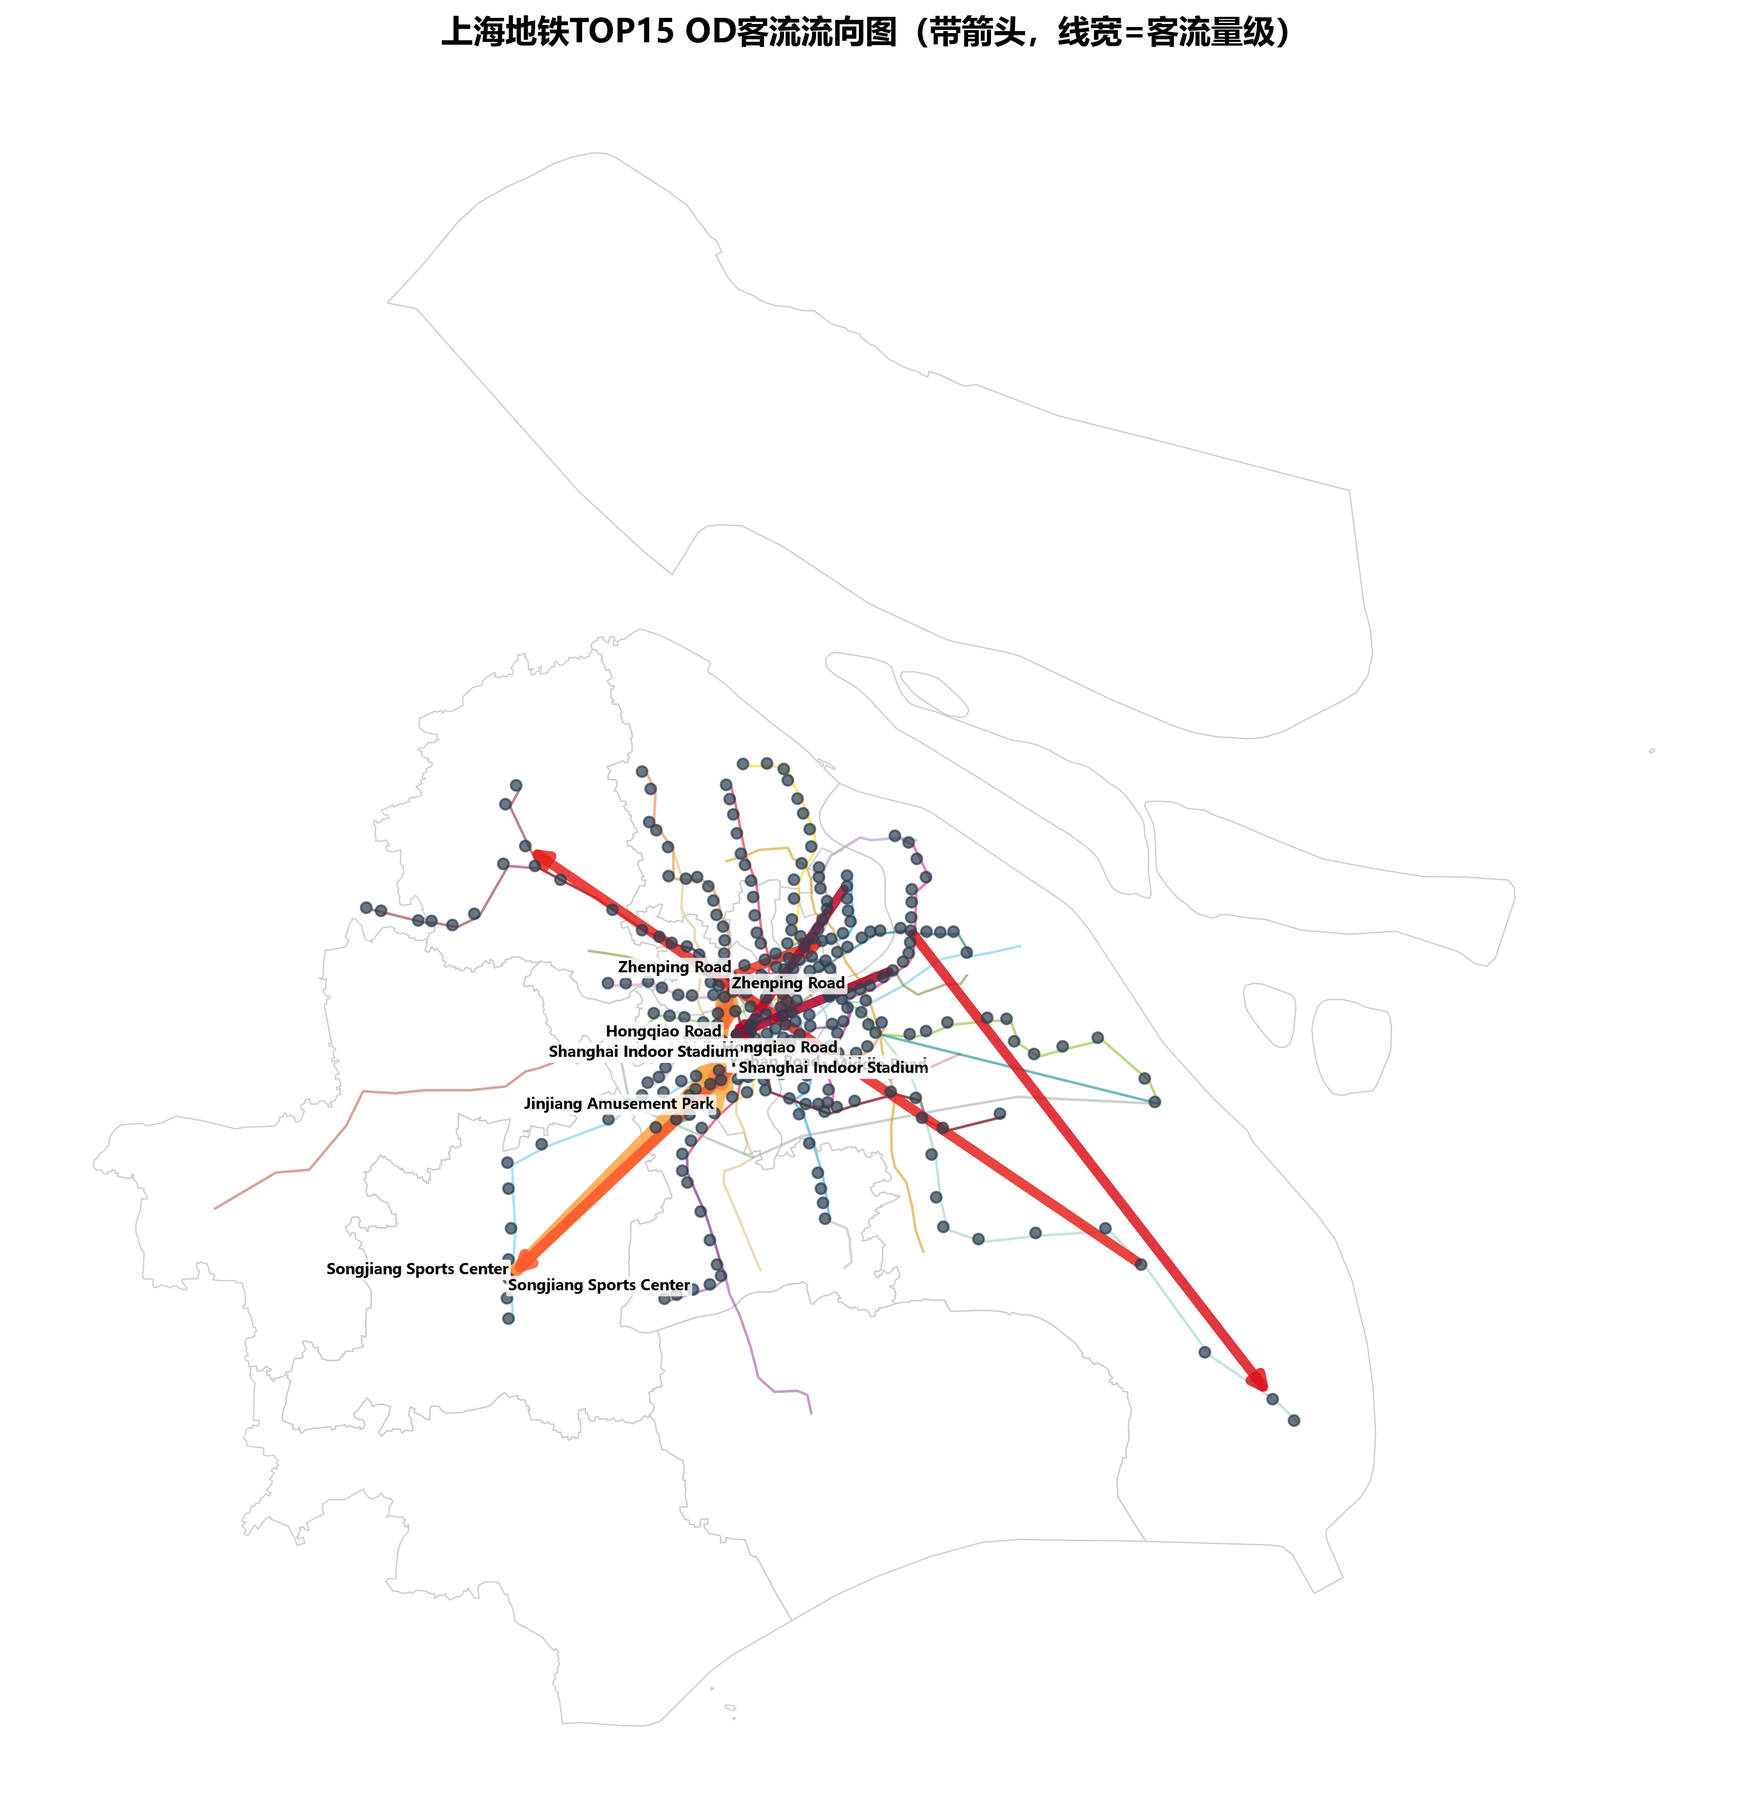
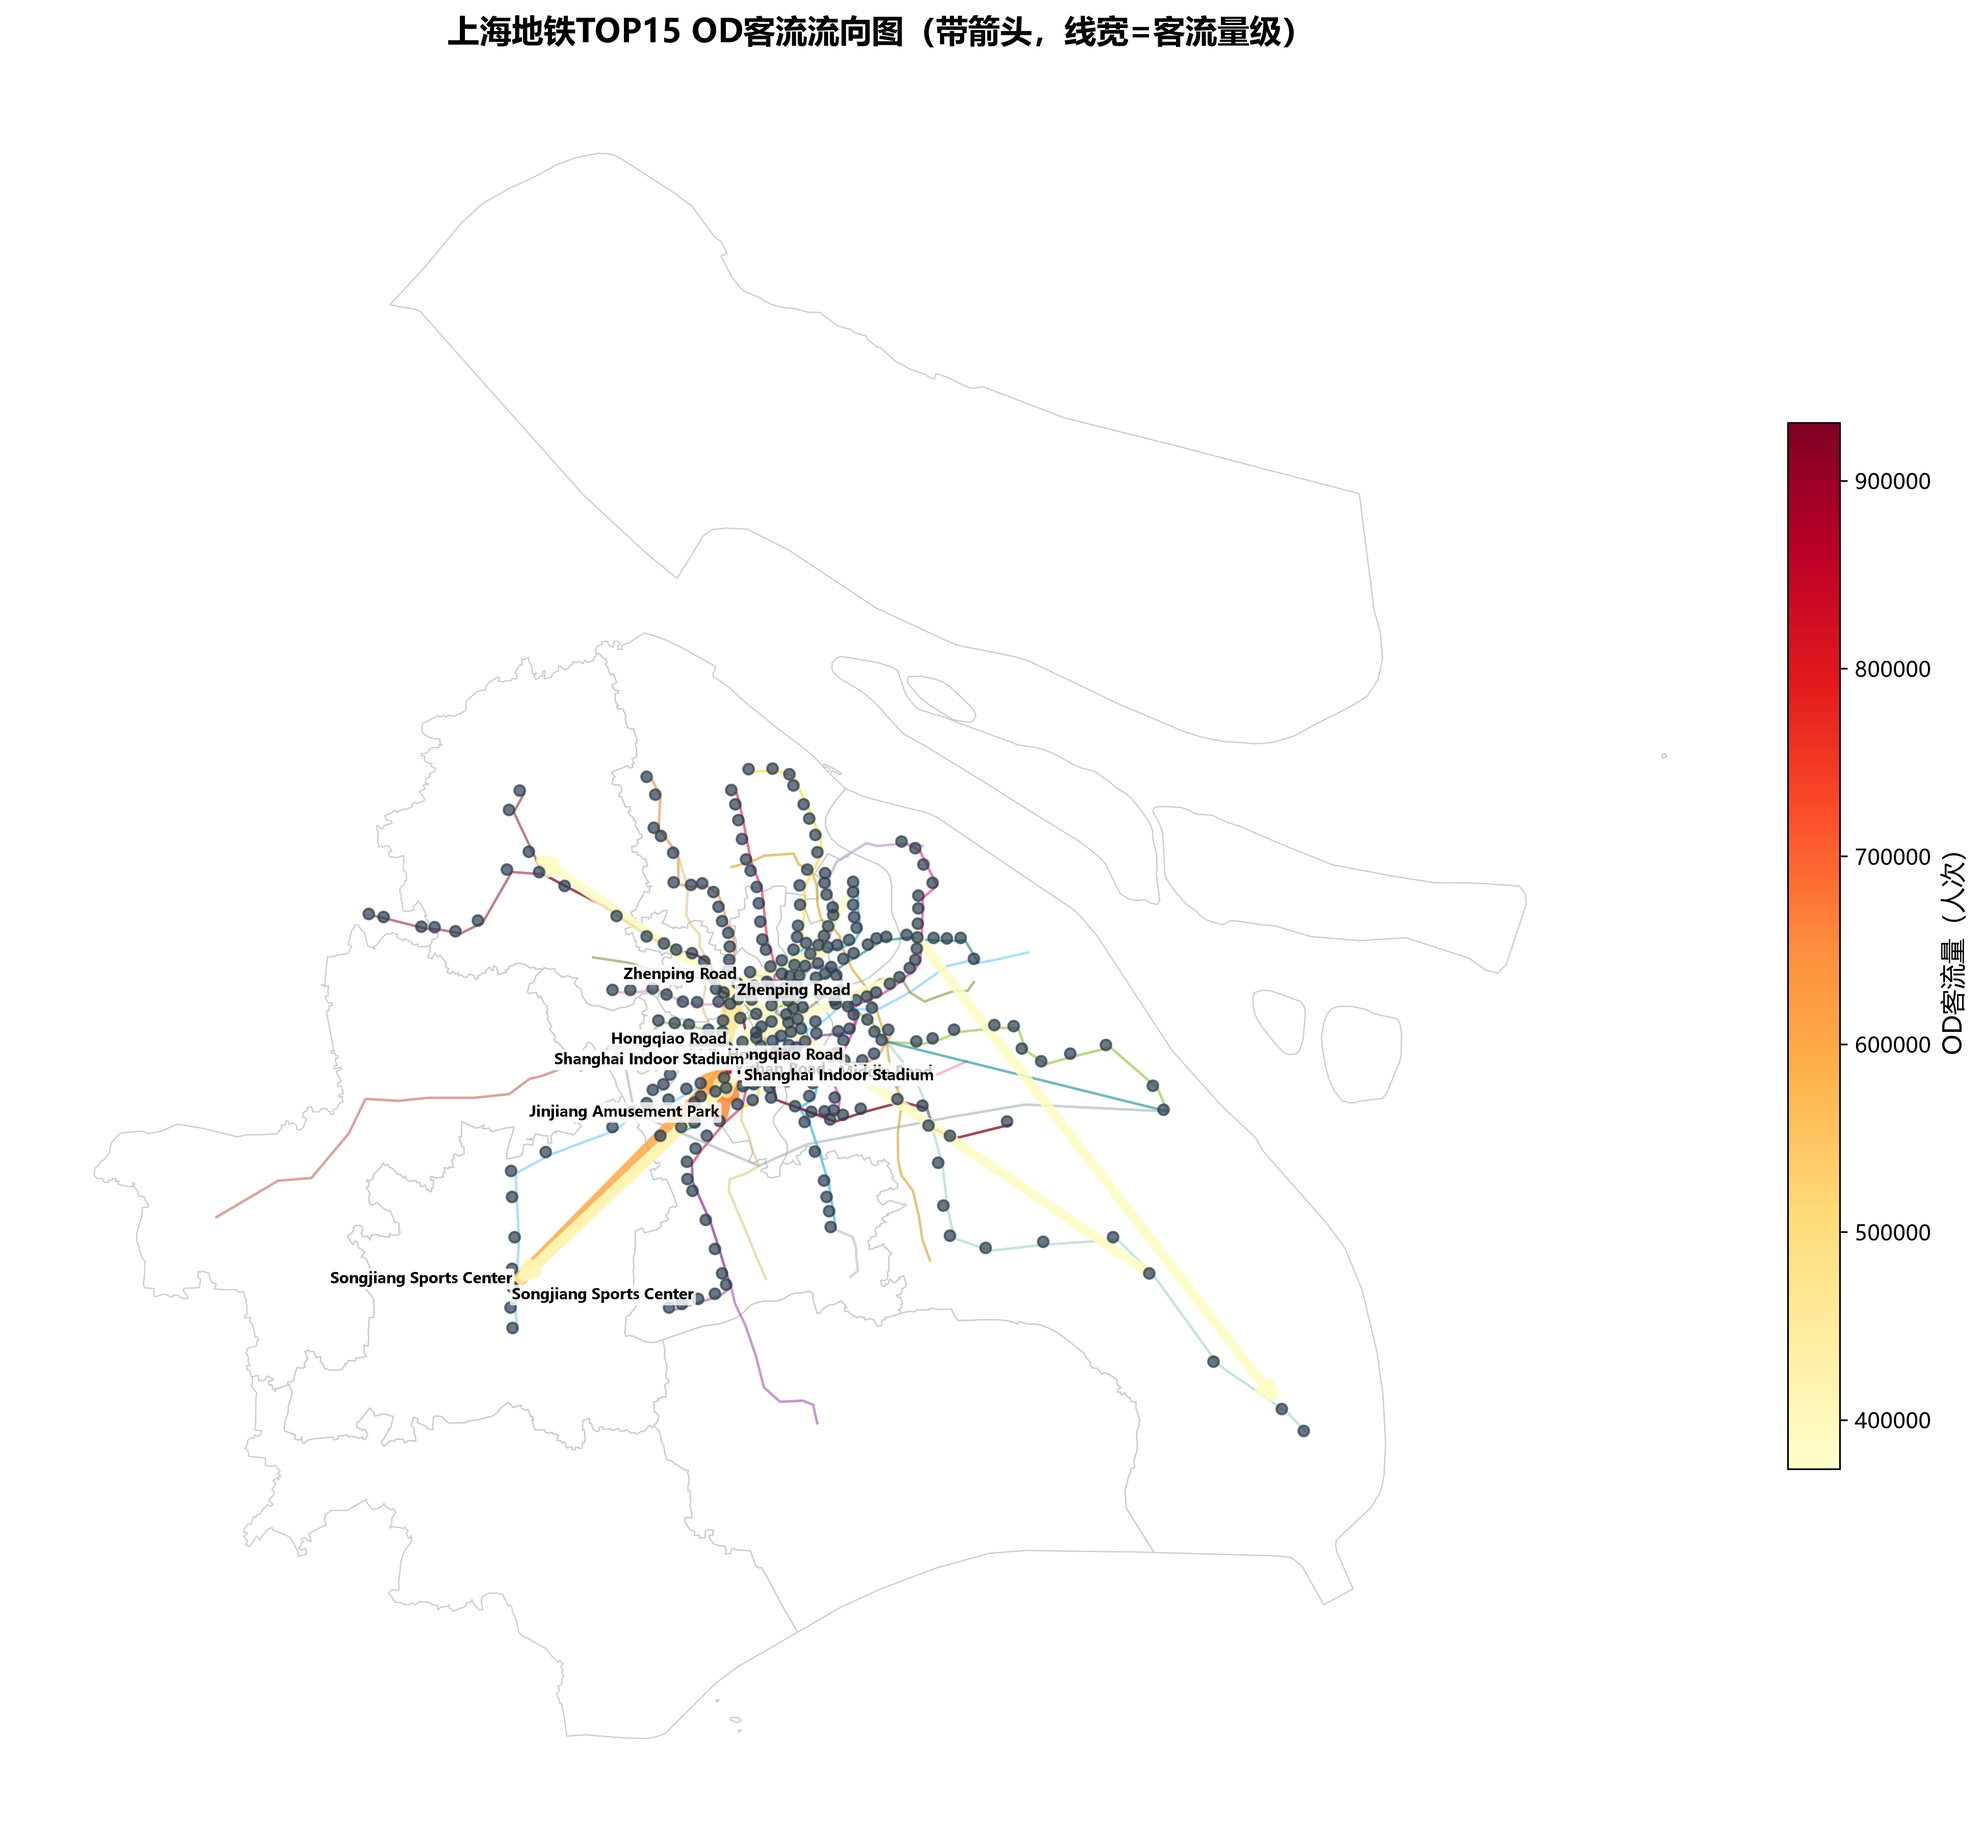
分工3: 图3-4b新增OD客流量颜色条图例，颜色按实际客流映射

diff --git a/code/分工3/07b_OD可视化优化版.py b/code/分工3/07b_OD可视化优化版.py
@@ -14,7 +14,8 @@ import numpy as np
 import matplotlib
 matplotlib.use("Agg")
 import matplotlib.pyplot as plt
-from matplotlib.colors import LinearSegmentedColormap
+from matplotlib.colors import LinearSegmentedColormap, Normalize
+from matplotlib.cm import ScalarMappable
 from matplotlib.patches import FancyArrowPatch
 import geopandas as gpd
 from pyproj import Transformer
@@ -118,8 +119,11 @@ flow_vals = top15["Flow"].values
 p95 = np.percentile(flow_vals, 95)
 linewidths = 1.5 + (np.clip(flow_vals, None, p95) / p95) * 7
 
-# 颜色从浅到深
-colors = plt.cm.YlOrRd(np.linspace(0.3, 0.9, len(top15)))
+# 颜色按实际客流量映射（YlOrRd），并创建colorbar
+norm = Normalize(vmin=flow_vals.min(), vmax=flow_vals.max())
+sm = ScalarMappable(cmap="YlOrRd", norm=norm)
+sm.set_array([])
+colors = sm.to_rgba(flow_vals)
 
 for idx, (_, r) in enumerate(top15.iterrows()):
     ox, oy = trans.transform(r["o_lon"], r["o_lat"])
@@ -146,6 +150,10 @@ for idx, (_, r) in enumerate(top15.iterrows()):
 # 绘制站点
 station_geo.plot(ax=ax, color="#2c3e50", markersize=25, zorder=4, alpha=0.7)
 ax.autoscale()
+
+# 添加客流量颜色条
+cbar = fig.colorbar(sm, ax=ax, shrink=0.6, pad=0.02)
+cbar.set_label("OD客流量（人次）", fontsize=12)
 
 ax.set_title("上海地铁TOP15 OD客流流向图（带箭头，线宽=客流量级）", fontsize=15, pad=15, fontweight="bold")
 ax.set_axis_off()
